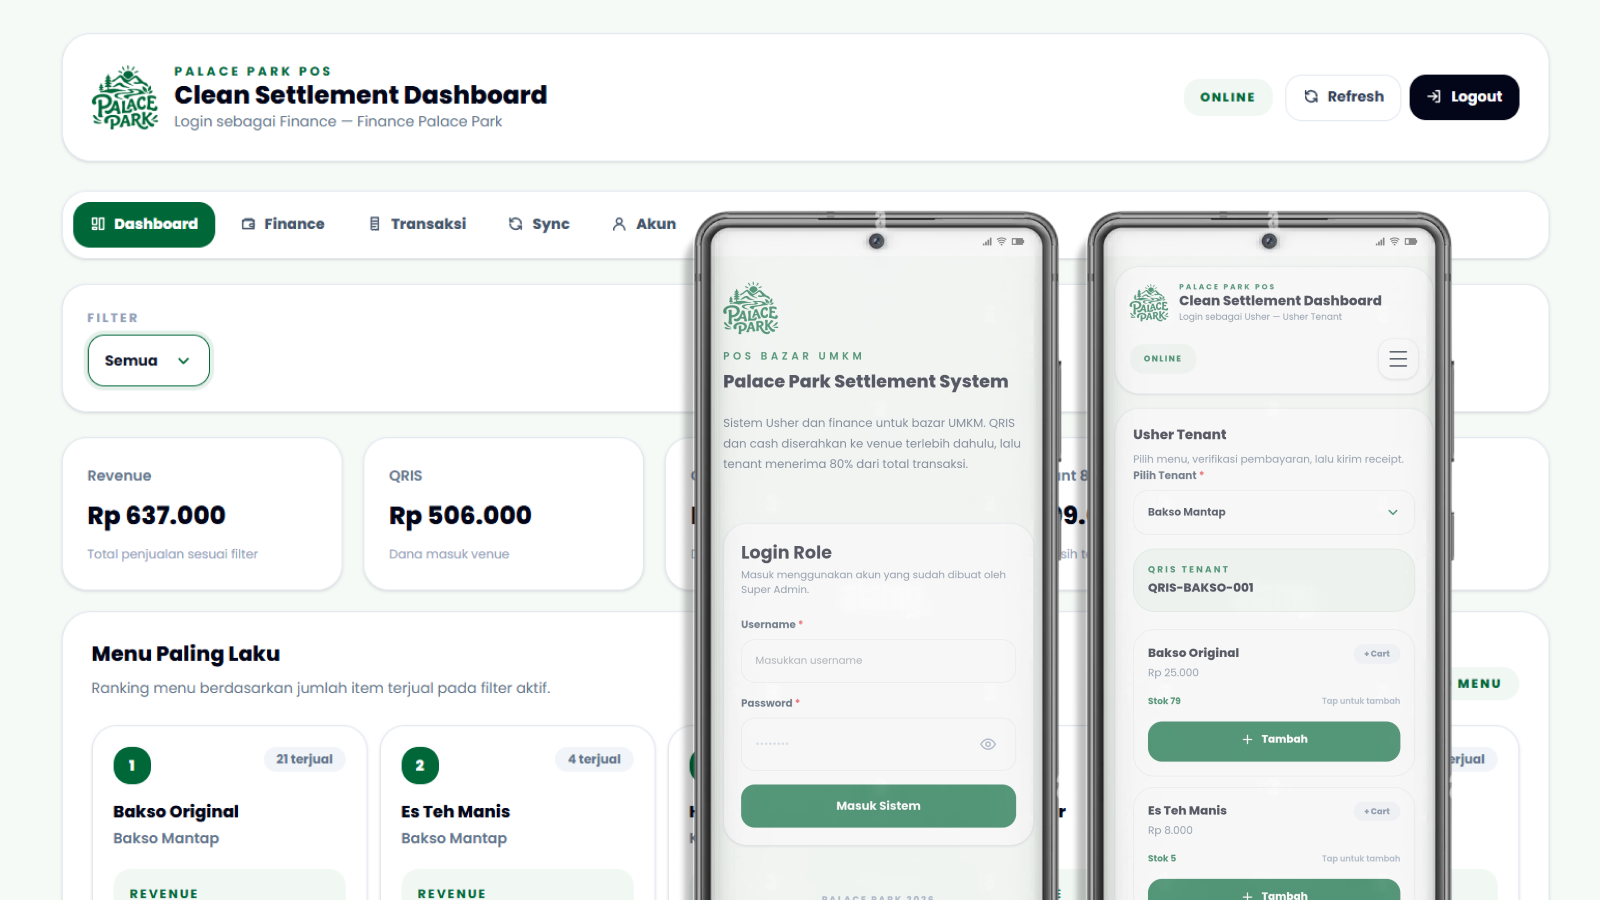
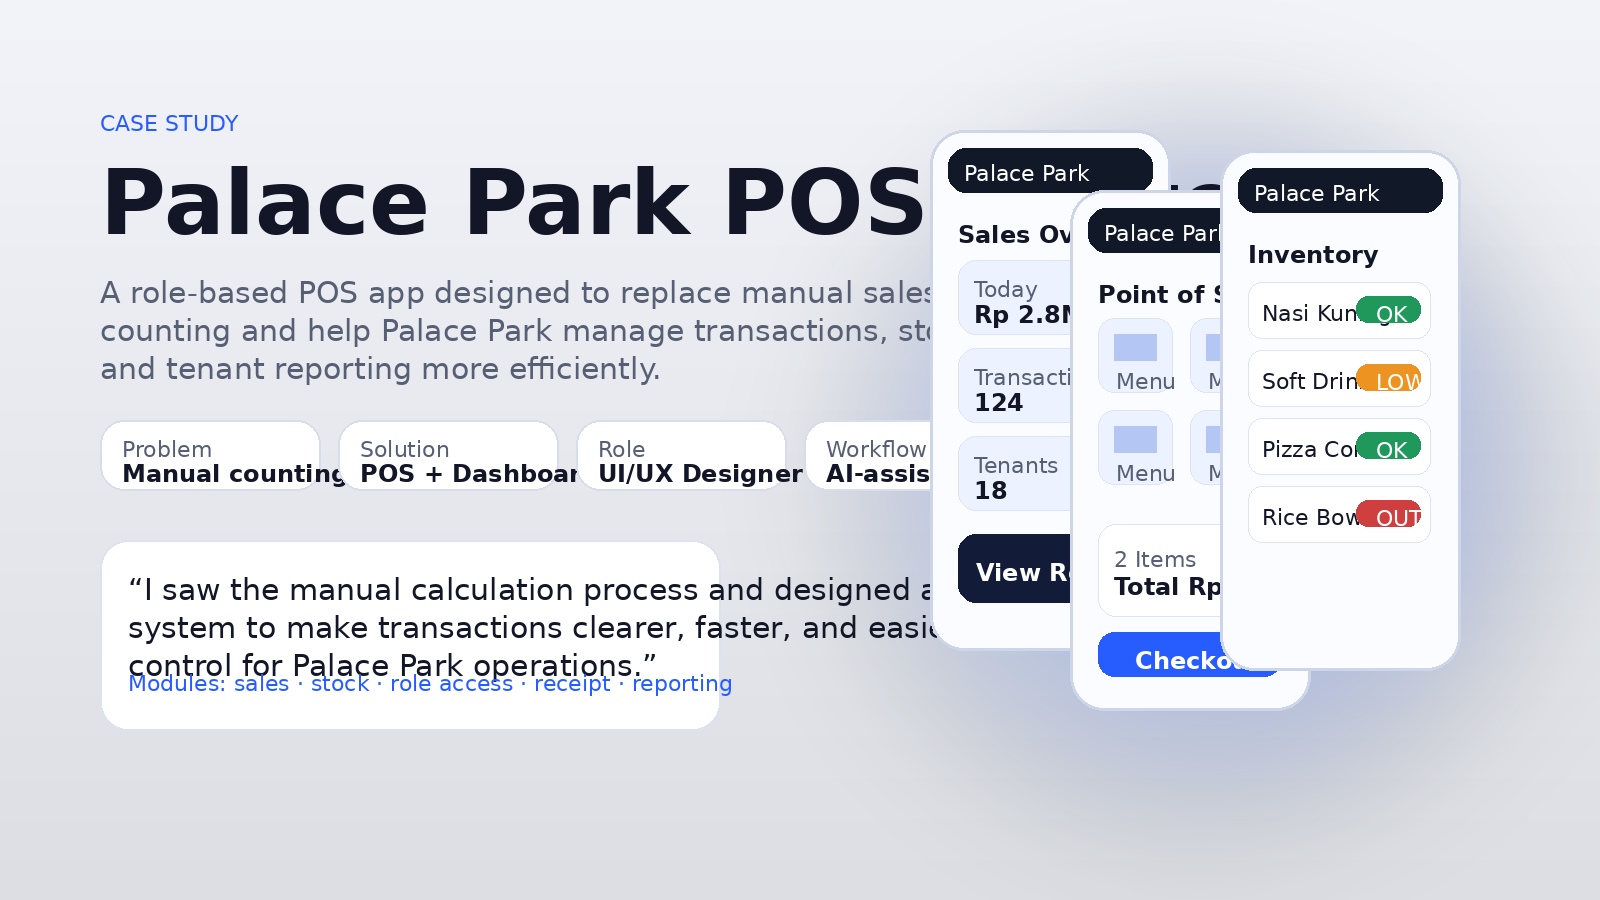
Update

diff --git a/cms.js b/cms.js
@@ -26,8 +26,15 @@ async function load() {
 
 function persistBrowser() {
   const payload = JSON.stringify(data);
-  localStorage.setItem(KEY, payload);
-  localStorage.setItem(LEGACY_KEY, payload);
+  try {
+    localStorage.setItem(KEY, payload);
+    localStorage.setItem(LEGACY_KEY, payload);
+    return true;
+  } catch (error) {
+    console.warn('Unable to save to browser storage.', error);
+    setUploadMessage('Browser storage is full. Export JSON or use a smaller image file.', 'error');
+    return false;
+  }
 }
 
 function getThemePreference() {
@@ -150,16 +157,66 @@ function saveCurrentProject() {
   setUploadMessage('Saved to browser. Export portfolio-data.json when you are ready to publish it to GitHub.', 'success');
 }
 
-function downloadJson() {
+function getExportPayload() {
   const latest = readForm();
   if (data.projects[current]) data.projects[current] = latest;
   persistBrowser();
-  const blob = new Blob([JSON.stringify(data, null, 2)], { type: 'application/json' });
-  const link = document.createElement('a');
-  link.href = URL.createObjectURL(blob);
-  link.download = 'portfolio-data.json';
-  link.click();
-  URL.revokeObjectURL(link.href);
+  return JSON.stringify(data, null, 2);
+}
+
+function downloadJson(event) {
+  if (event) event.preventDefault();
+
+  try {
+    const payload = getExportPayload();
+    const blob = new Blob([payload], { type: 'application/json;charset=utf-8' });
+    const url = URL.createObjectURL(blob);
+    const link = document.createElement('a');
+
+    link.href = url;
+    link.download = 'portfolio-data.json';
+    link.style.display = 'none';
+    document.body.appendChild(link);
+    link.click();
+
+    setTimeout(() => {
+      URL.revokeObjectURL(url);
+      link.remove();
+    }, 1200);
+
+    setUploadMessage('portfolio-data.json downloaded. Replace data/portfolio-data.json in GitHub, then commit and push.', 'success');
+  } catch (error) {
+    console.error(error);
+    setUploadMessage('Export failed. Use Copy JSON, then paste it manually into data/portfolio-data.json on GitHub.', 'error');
+  }
+}
+
+async function copyJsonToClipboard(event) {
+  if (event) event.preventDefault();
+
+  try {
+    const payload = getExportPayload();
+    await navigator.clipboard.writeText(payload);
+    setUploadMessage('JSON copied. Open GitHub → data/portfolio-data.json → Edit → paste → Commit changes.', 'success');
+  } catch (error) {
+    console.error(error);
+    const payload = getExportPayload();
+    const textarea = document.createElement('textarea');
+    textarea.value = payload;
+    textarea.style.position = 'fixed';
+    textarea.style.inset = '16px';
+    textarea.style.zIndex = '9999';
+    textarea.style.width = 'calc(100% - 32px)';
+    textarea.style.height = 'calc(100% - 32px)';
+    textarea.style.padding = '16px';
+    textarea.style.background = '#fff';
+    textarea.style.color = '#111';
+    textarea.style.border = '3px solid #2f6bff';
+    document.body.appendChild(textarea);
+    textarea.focus();
+    textarea.select();
+    setUploadMessage('Copy failed automatically. A JSON textarea is open; press Ctrl + A then Ctrl + C.', 'error');
+  }
 }
 
 function validateImage(file) {
@@ -306,9 +363,13 @@ async function init() {
     event.preventDefault();
     saveCurrentProject();
   });
-  $('#new-project').onclick = createNewProject;
-  $('#delete-project').onclick = deleteCurrentProject;
-  $('#export-json').onclick = downloadJson;
+  $('#new-project')?.addEventListener('click', createNewProject);
+  $('#delete-project')?.addEventListener('click', deleteCurrentProject);
+  $('#export-json')?.addEventListener('click', downloadJson);
+  $('#copy-json')?.addEventListener('click', copyJsonToClipboard);
+
+  window.downloadJson = downloadJson;
+  window.copyJsonToClipboard = copyJsonToClipboard;
 }
 
 init().catch(error => {

diff --git a/admin.html b/admin.html
@@ -52,6 +52,7 @@
       <div class="admin-actions">
         <button class="button primary" id="new-project" type="button">New Project</button>
         <button class="button ghost" id="export-json" type="button">Export JSON</button>
+        <button class="button ghost" id="copy-json" type="button">Copy JSON</button>
       </div>
       <p class="admin-note">Edit works here, upload the project photo, then export <code>portfolio-data.json</code> and replace it in GitHub.</p>
       <div id="project-list" class="admin-list" aria-label="Portfolio project list"></div>
@@ -99,14 +100,14 @@
 
         <div class="admin-actions">
           <button class="button primary" type="submit">Save to Browser</button>
-        <p class="auto-local-note">Image uploads are saved instantly to this browser and will appear on the homepage/detail pages after refresh. Export JSON only when you want to publish the update for everyone.</p>
           <button class="button ghost" id="delete-project" type="button">Delete</button>
         </div>
+        <p class="auto-local-note">Image uploads are saved instantly to this browser and will appear on the homepage/detail pages after refresh. Use <strong>Export JSON</strong> to download the updated data for GitHub.</p>
       </form>
       <div class="admin-preview" id="admin-preview"></div>
     </section>
   </main>
 
-  <script src="cms.js?v=stable-portfolio-2"></script>
+  <script src="cms.js?v=export-fix-1"></script>
 </body>
 </html>

diff --git a/style.css b/style.css
@@ -646,3 +646,7 @@ blockquote { margin: 0 0 18px; color: var(--heading); font-size: clamp(1.3rem, 3
   font-size: 0.86rem;
   line-height: 1.55;
 }
+
+.auto-local-note strong {
+  color: var(--heading);
+}

diff --git a/README.md b/README.md
@@ -121,3 +121,12 @@ Workflow:
 4. Open or refresh `index.html` or the project detail page to see the image immediately.
 
 Important: GitHub Pages is static. To make the uploaded image visible to everyone online, use **Export JSON** from the CMS and replace `data/portfolio-data.json` in GitHub, then commit and push.
+
+
+## Export JSON Fix
+
+The CMS now has two publish helpers:
+- **Export JSON** downloads `portfolio-data.json`.
+- **Copy JSON** copies the same JSON to clipboard as a fallback.
+
+If Export JSON is blocked by the browser, use Copy JSON, then paste the content into `data/portfolio-data.json` on GitHub and commit the change.
